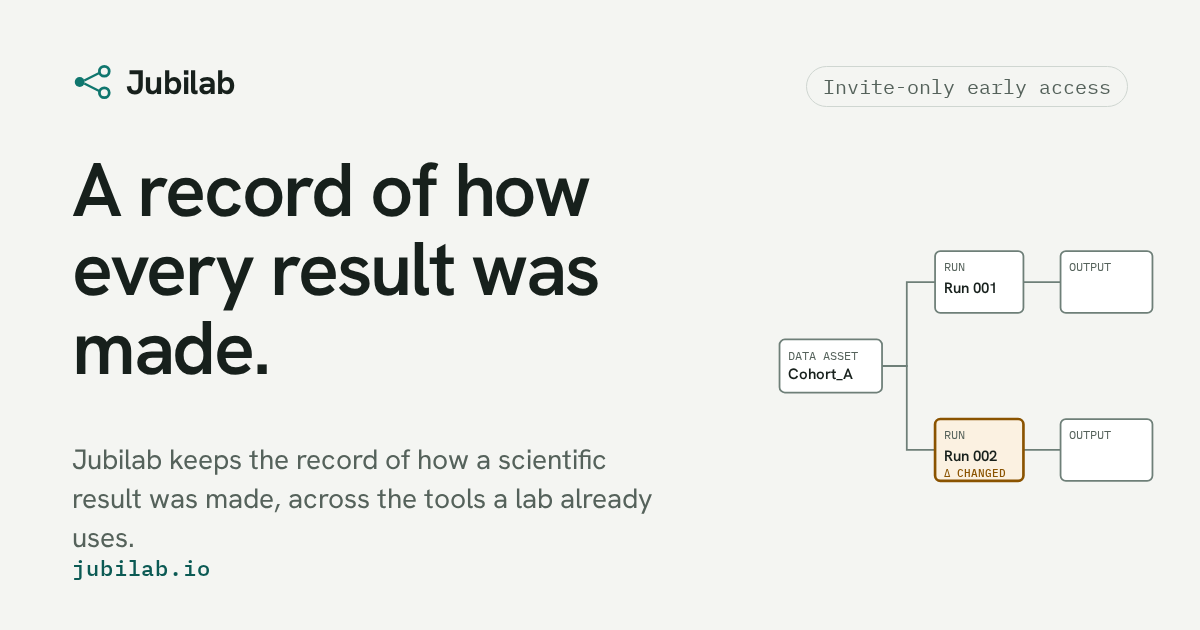
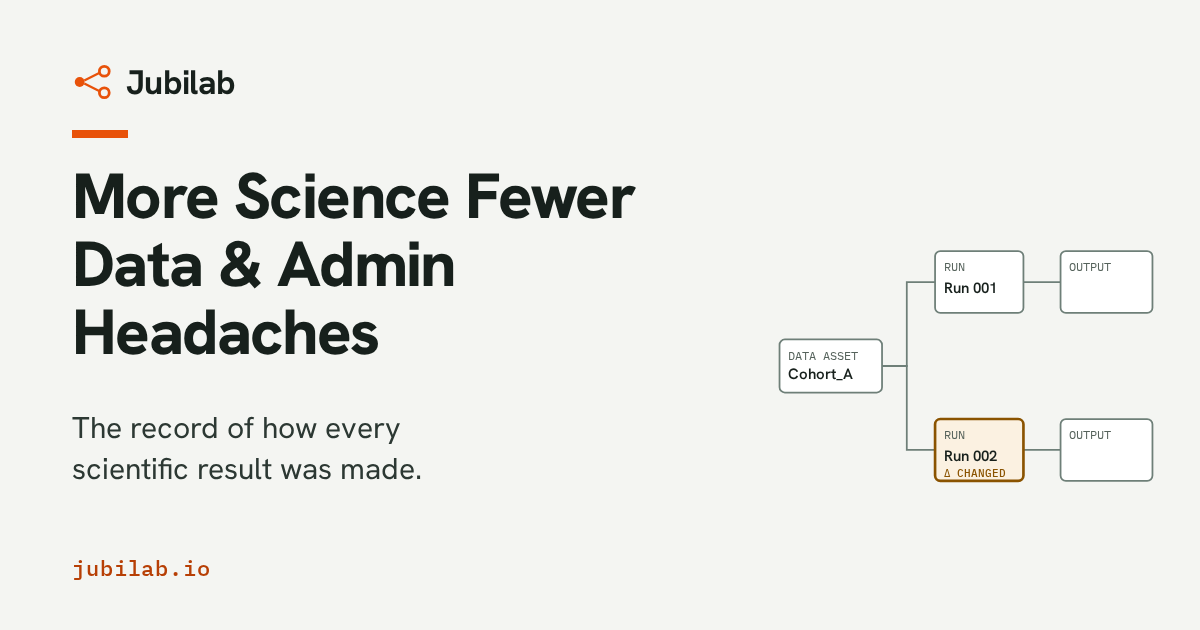
OG image: new headline and line, orange accent, no invite-only tag; matching alt text

diff --git a/assets/og/og-source.html b/assets/og/og-source.html
@@ -9,10 +9,10 @@
 body{margin:0;width:1200px;height:630px;background:#f4f5f2;color:#17201c;font-family:"Hanken Grotesk",sans-serif;position:relative;overflow:hidden}
 .brand{position:absolute;left:72px;top:60px;display:flex;align-items:center;gap:14px;font-weight:700;font-size:34px;letter-spacing:-.02em}
 .brand svg{width:40px;height:40px}
-.tag{position:absolute;right:72px;top:66px;font:400 20px "IBM Plex Mono",monospace;color:#55625b;border:1px solid #cfd6d1;border-radius:999px;padding:6px 16px}
-h1{position:absolute;left:72px;top:150px;margin:0;font-weight:600;font-size:76px;line-height:1.04;letter-spacing:-.03em;width:700px}
-p{position:absolute;left:72px;top:440px;margin:0;font-size:28px;line-height:1.4;color:#55625b;width:600px}
-.url{position:absolute;left:72px;bottom:48px;font:500 22px "IBM Plex Mono",monospace;color:#0b5a54;letter-spacing:.04em}
+.bar{position:absolute;left:72px;top:130px;width:56px;height:8px;background:#e8520a}
+h1{position:absolute;left:72px;top:162px;margin:0;font-weight:800;font-size:64px;line-height:1.06;letter-spacing:-.025em;width:690px}
+p{position:absolute;left:72px;top:408px;margin:0;font-size:30px;line-height:1.35;color:#2c3833;width:620px;text-wrap:balance}
+.url{position:absolute;left:72px;bottom:48px;font:500 22px "IBM Plex Mono",monospace;color:#b73f05;letter-spacing:.04em}
 svg.dag{position:absolute;right:44px;top:220px;width:380px;height:292px}
 .box{fill:#fff;stroke:#6e7f78;stroke-width:2}
 .chg .box{fill:#fbf1e1;stroke:#8a5300;stroke-width:3}
@@ -21,10 +21,10 @@ text{font-family:"IBM Plex Mono",monospace;font-size:14px;fill:#55625b}
 .nm{font-family:"Hanken Grotesk",sans-serif;font-weight:600;font-size:17px;fill:#17201c}
 .c{fill:#8a5300;font-weight:500}
 </style></head><body>
-<div class="brand"><svg viewBox="0 0 26 26"><circle cx="5" cy="13" r="3.2" fill="#0f766e"/><circle cx="21" cy="6" r="3.2" fill="none" stroke="#0f766e" stroke-width="1.8"/><circle cx="21" cy="20" r="3.2" fill="none" stroke="#0f766e" stroke-width="1.8"/><path d="M8 12 L18 7 M8 14 L18 19" stroke="#0f766e" stroke-width="1.5" fill="none"/></svg>Jubilab</div>
-<div class="tag">Invite-only early access</div>
-<h1>A record of how every result was made.</h1>
-<p>Jubilab keeps the record of how a scientific result was made, across the tools a lab already uses.</p>
+<div class="brand"><svg viewBox="0 0 26 26"><circle cx="5" cy="13" r="3.2" fill="#e8520a"/><circle cx="21" cy="6" r="3.2" fill="none" stroke="#e8520a" stroke-width="1.8"/><circle cx="21" cy="20" r="3.2" fill="none" stroke="#e8520a" stroke-width="1.8"/><path d="M8 12 L18 7 M8 14 L18 19" stroke="#e8520a" stroke-width="1.5" fill="none"/></svg>Jubilab</div>
+<div class="bar"></div>
+<h1>More Science Fewer Data &amp; Admin Headaches</h1>
+<p>The record of how every scientific result was made.</p>
 <div class="url">jubilab.io</div>
 <svg class="dag" viewBox="0 0 430 330">
 <path class="e" d="M120 165 H148 V70 H180"/><path class="e" d="M120 165 H148 V260 H180"/><path class="e" d="M280 70 H322"/><path class="e" d="M280 260 H322"/>

diff --git a/index.html b/index.html
@@ -16,12 +16,12 @@
 <meta property="og:image" content="https://jubilab.io/assets/og/jubilab-og.png">
 <meta property="og:image:width" content="1200">
 <meta property="og:image:height" content="630">
-<meta property="og:image:alt" content="Jubilab: a record of how every result was made. A lineage graph from an input file through a run to an output file.">
+<meta property="og:image:alt" content="Jubilab: more science, fewer data and admin headaches. The record of how every scientific result was made, beside a lineage graph from an input file through two runs to their outputs.">
 <meta name="twitter:card" content="summary_large_image">
 <meta name="twitter:title" content="Jubilab: the record of how every scientific result was made">
 <meta name="twitter:description" content="Jubilab is building the record of how every scientific result was made: trace it, compare runs and see what you can trust. Join the first labs shaping it.">
 <meta name="twitter:image" content="https://jubilab.io/assets/og/jubilab-og.png">
-<meta name="twitter:image:alt" content="Jubilab: a record of how every result was made. A lineage graph from an input file through a run to an output file.">
+<meta name="twitter:image:alt" content="Jubilab: more science, fewer data and admin headaches. The record of how every scientific result was made, beside a lineage graph from an input file through two runs to their outputs.">
 <link rel="icon" href="assets/favicon.svg" type="image/svg+xml">
 <link rel="preload" href="assets/fonts/hanken-grotesk-latin-wght-normal.woff2" as="font" type="font/woff2" crossorigin>
 <link rel="preload" href="assets/fonts/ibm-plex-mono-latin-400-normal.woff2" as="font" type="font/woff2" crossorigin>

diff --git a/privacy/index.html b/privacy/index.html
@@ -16,12 +16,12 @@
 <meta property="og:image" content="https://jubilab.io/assets/og/jubilab-og.png">
 <meta property="og:image:width" content="1200">
 <meta property="og:image:height" content="630">
-<meta property="og:image:alt" content="Jubilab: a record of how every result was made. A lineage graph from an input file through a run to an output file.">
+<meta property="og:image:alt" content="Jubilab: more science, fewer data and admin headaches. The record of how every scientific result was made, beside a lineage graph from an input file through two runs to their outputs.">
 <meta name="twitter:card" content="summary_large_image">
 <meta name="twitter:title" content="Privacy | Jubilab">
 <meta name="twitter:description" content="How the Jubilab website handles your data: what the early-access form collects, what the site keeps in your browser, and how to ask us to delete your details.">
 <meta name="twitter:image" content="https://jubilab.io/assets/og/jubilab-og.png">
-<meta name="twitter:image:alt" content="Jubilab: a record of how every result was made. A lineage graph from an input file through a run to an output file.">
+<meta name="twitter:image:alt" content="Jubilab: more science, fewer data and admin headaches. The record of how every scientific result was made, beside a lineage graph from an input file through two runs to their outputs.">
 <link rel="icon" href="../assets/favicon.svg" type="image/svg+xml">
 <link rel="preload" href="../assets/fonts/hanken-grotesk-latin-wght-normal.woff2" as="font" type="font/woff2" crossorigin>
 <link rel="preload" href="../assets/fonts/ibm-plex-mono-latin-400-normal.woff2" as="font" type="font/woff2" crossorigin>

diff --git a/terms/index.html b/terms/index.html
@@ -16,12 +16,12 @@
 <meta property="og:image" content="https://jubilab.io/assets/og/jubilab-og.png">
 <meta property="og:image:width" content="1200">
 <meta property="og:image:height" content="630">
-<meta property="og:image:alt" content="Jubilab: a record of how every result was made. A lineage graph from an input file through a run to an output file.">
+<meta property="og:image:alt" content="Jubilab: more science, fewer data and admin headaches. The record of how every scientific result was made, beside a lineage graph from an input file through two runs to their outputs.">
 <meta name="twitter:card" content="summary_large_image">
 <meta name="twitter:title" content="Terms | Jubilab">
 <meta name="twitter:description" content="The terms for using the Jubilab website and requesting early access: what early access means, acceptable use, liability, governing law, and how to contact us.">
 <meta name="twitter:image" content="https://jubilab.io/assets/og/jubilab-og.png">
-<meta name="twitter:image:alt" content="Jubilab: a record of how every result was made. A lineage graph from an input file through a run to an output file.">
+<meta name="twitter:image:alt" content="Jubilab: more science, fewer data and admin headaches. The record of how every scientific result was made, beside a lineage graph from an input file through two runs to their outputs.">
 <link rel="icon" href="../assets/favicon.svg" type="image/svg+xml">
 <link rel="preload" href="../assets/fonts/hanken-grotesk-latin-wght-normal.woff2" as="font" type="font/woff2" crossorigin>
 <link rel="preload" href="../assets/fonts/ibm-plex-mono-latin-400-normal.woff2" as="font" type="font/woff2" crossorigin>

diff --git a/thanks/index.html b/thanks/index.html
@@ -18,12 +18,12 @@
 <meta property="og:image" content="https://jubilab.io/assets/og/jubilab-og.png">
 <meta property="og:image:width" content="1200">
 <meta property="og:image:height" content="630">
-<meta property="og:image:alt" content="Jubilab: a record of how every result was made. A lineage graph from an input file through a run to an output file.">
+<meta property="og:image:alt" content="Jubilab: more science, fewer data and admin headaches. The record of how every scientific result was made, beside a lineage graph from an input file through two runs to their outputs.">
 <meta name="twitter:card" content="summary_large_image">
 <meta name="twitter:title" content="Thank you | Jubilab">
 <meta name="twitter:description" content="Your early-access request was received.">
 <meta name="twitter:image" content="https://jubilab.io/assets/og/jubilab-og.png">
-<meta name="twitter:image:alt" content="Jubilab: a record of how every result was made. A lineage graph from an input file through a run to an output file.">
+<meta name="twitter:image:alt" content="Jubilab: more science, fewer data and admin headaches. The record of how every scientific result was made, beside a lineage graph from an input file through two runs to their outputs.">
 <link rel="icon" href="../assets/favicon.svg" type="image/svg+xml">
 <link rel="preload" href="../assets/fonts/hanken-grotesk-latin-wght-normal.woff2" as="font" type="font/woff2" crossorigin>
 <link rel="preload" href="../assets/fonts/ibm-plex-mono-latin-400-normal.woff2" as="font" type="font/woff2" crossorigin>

diff --git a/404.html b/404.html
@@ -16,12 +16,12 @@
 <meta property="og:image" content="https://jubilab.io/assets/og/jubilab-og.png">
 <meta property="og:image:width" content="1200">
 <meta property="og:image:height" content="630">
-<meta property="og:image:alt" content="Jubilab: a record of how every result was made. A lineage graph from an input file through a run to an output file.">
+<meta property="og:image:alt" content="Jubilab: more science, fewer data and admin headaches. The record of how every scientific result was made, beside a lineage graph from an input file through two runs to their outputs.">
 <meta name="twitter:card" content="summary_large_image">
 <meta name="twitter:title" content="Page not found | Jubilab">
 <meta name="twitter:description" content="This page does not exist.">
 <meta name="twitter:image" content="https://jubilab.io/assets/og/jubilab-og.png">
-<meta name="twitter:image:alt" content="Jubilab: a record of how every result was made. A lineage graph from an input file through a run to an output file.">
+<meta name="twitter:image:alt" content="Jubilab: more science, fewer data and admin headaches. The record of how every scientific result was made, beside a lineage graph from an input file through two runs to their outputs.">
 <link rel="icon" href="/assets/favicon.svg" type="image/svg+xml">
 <link rel="preload" href="/assets/fonts/hanken-grotesk-latin-wght-normal.woff2" as="font" type="font/woff2" crossorigin>
 <link rel="preload" href="/assets/fonts/ibm-plex-mono-latin-400-normal.woff2" as="font" type="font/woff2" crossorigin>
